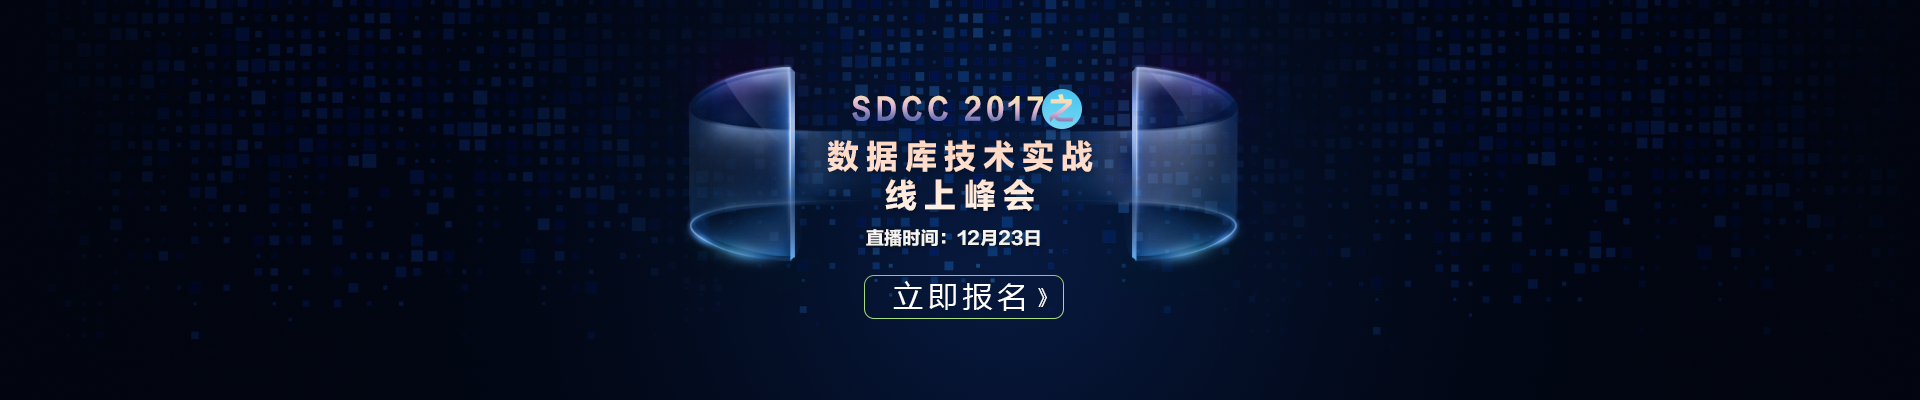
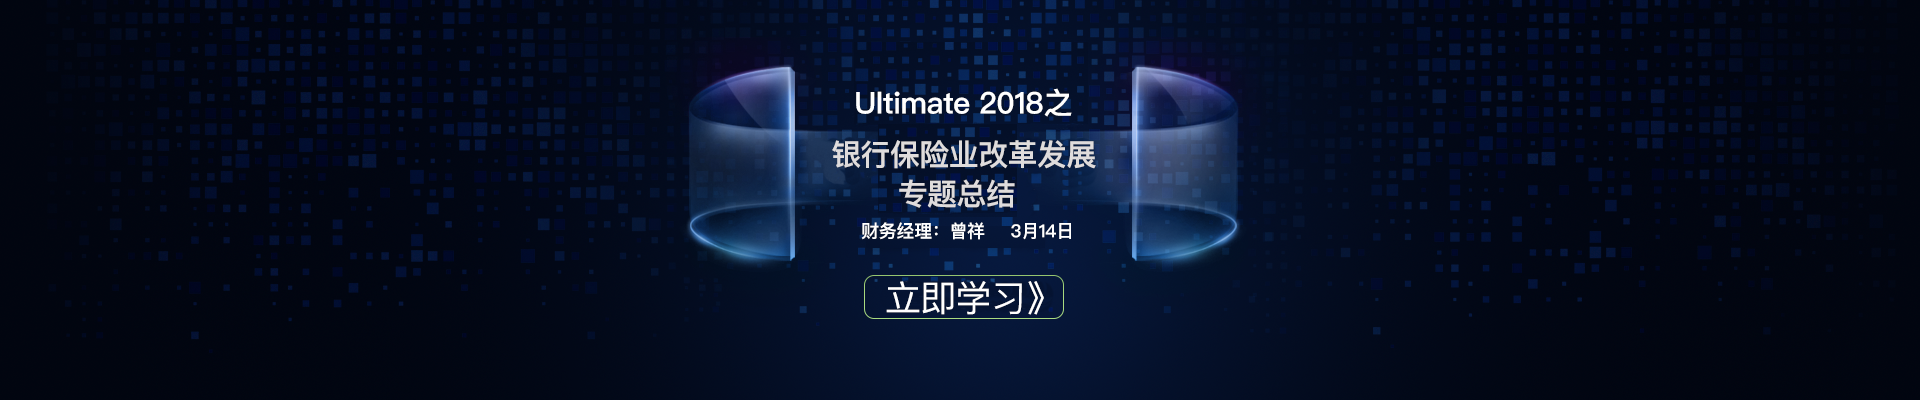
轮播修改

Changed region(s): [[0.4062, 0.09, 0.5938, 0.63], [0.4375, 0.69, 0.5625, 0.78]]

diff --git a/EKBMS/index.html b/EKBMS/index.html
@@ -96,7 +96,7 @@
 			<!-- 轮播（Carousel）项目 -->
 			<div class="carousel-inner">
 				<div class="item active">
-					<img src="img/1512440732674_674.jpg" alt="First slide" class="img-responsive">
+					<img src="img/1512440732674_674.png" alt="First slide" class="img-responsive">
 				</div>
 				<div class="item">
 					<img src="img/1513048034943_943.png" alt="Second slide" class="img-responsive">
